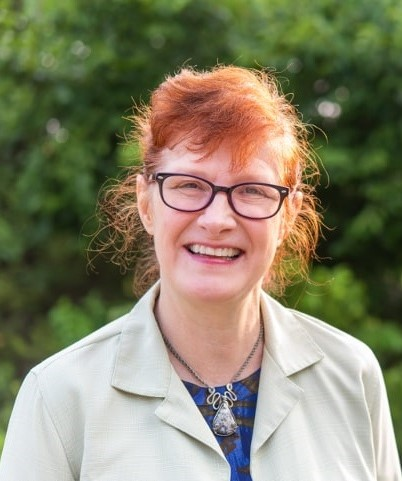
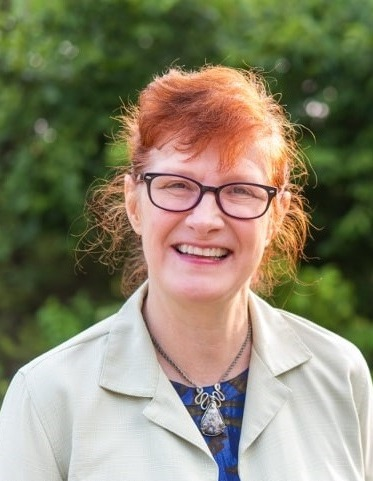
did some image resizing

diff --git a/index.html b/index.html
@@ -20,7 +20,7 @@
                     <p>Explore our website to learn about our initiatives and meet our team.</p>
                     <a href="src/pages/meet-tas.html" class="button">Meet Our TAs</a>
 
-                    <h2>What is Computer Science?</h2>
+                    <h2>More About the Computer Science Department</h2>
                     <p>&emsp; &ensp;
                         Computer scientists have transformed the world we live in,
                         and with a computer science degree, you can become the next leader in our
@@ -29,7 +29,7 @@
                         <a href="https://berea.smartcatalogiq.com/en/current/catalog/departments-of-study/computer-science/computer-and-information-science-b-a/" target="_blank" title="Computer and Information Science B.A.">(View classes here!)</a>
                         a caring and accessible faculty, and numerous labor and
                         co-curricular opportunities, you'll be ready to create the next great
-                        advancement in technology. Coming in 2024, our new technology building will
+                        advancement in technology. Our new technology building, built in 2024, will
                         support opportunities to explore advanced computing subjects in our
                         interactive robotics and visualization lab, a makerspace designed to foster
                         creativity and exploration, and a hands-on networking and security lab.
